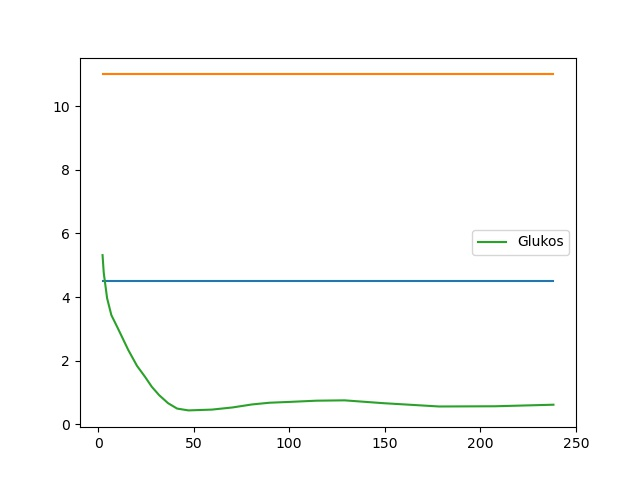
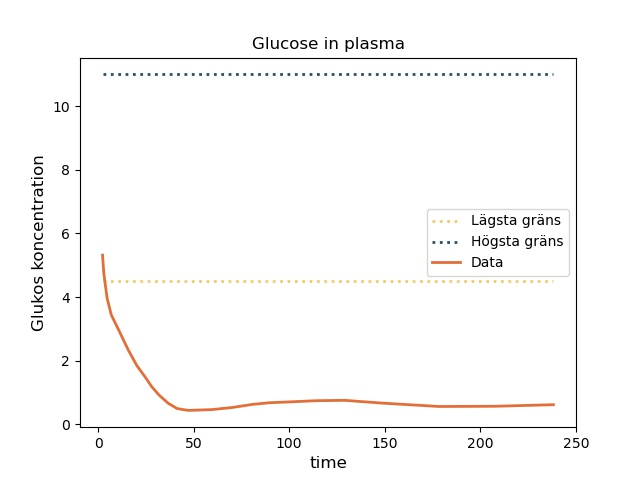
plot changes

diff --git a/optimering/plot_raw_data.py b/optimering/plot_raw_data.py
@@ -3,6 +3,12 @@ import numpy
 import pandas as pd
 import os
 
+# Colour-blind friendly palette (use nice colors)
+cb_palette1 = ["#999999", "#E69F00", "#56B4E9", "#009E73", "#F0E442", "#0072B2", "#D55E00", "#CC79A7"]
+
+# [Mörkblå, Gul, Ockraröd, Mörkgrön ,Olivgrön ,Ljusbeige (dålig), Ljusgult (dålig), Gul ]
+cb_palette2 = ["#F4E3AF", "#F1CB6F", "#E16F3B", "#2D4E63", "#899964", "#F4E3AF", "#F1CB6F", "#E16F3B"]
+
 # Hämta data
 data_G = pd.read_csv ('data_horses\Glukos_new_FFaraber.csv', sep=';')
 data_I = pd.read_csv ('data_horses\insulin_new_FFaraber.csv', sep=';')
@@ -24,15 +30,20 @@ yI1_coordinates = [38,38]   #pM (human)
 yI2_coordinates = [400,400] #pM (human)
 
 # plotta glukos
+lw = 2.0
 plot1 = plt.figure(1)
-plt.plot(xG_coordinates, yG1_coordinates)
-plot1 = plt.figure(1)
-plt.plot(xG_coordinates, yG2_coordinates)
-plot1 = plt.figure(1)
-plt.plot(data_G['tid'].values, data_G['konc'].values, label = 'Glukos')
-plt.legend()
+line1, = plt.plot(xG_coordinates, yG1_coordinates, linestyle=":", linewidth=lw, color=cb_palette2[1])
 
-# Sparar figur i plot constrains
+plot1 = plt.figure(1)
+line2, = plt.plot(xG_coordinates, yG2_coordinates, linestyle=":", linewidth=lw, color=cb_palette2[3])
+
+plot1 = plt.figure(1)
+line3, = plt.plot(data_G['tid'].values, data_G['konc'].values, label = 'Glukos', linestyle="-", linewidth=lw, color=cb_palette2[2])
+plt.legend((line1, line2, line3), ("Lägsta gräns", "Högsta gräns", "Data"))
+plt.xlabel("time", fontsize=12), plt.ylabel("Glukos koncentration", fontsize=12)
+plt.title("Glucose in plasma")
+
+# Sparar figur i plot constrains, glukos
 # Write the result to file
 path_result_dir = "optimering/Bilder/plot_constrains"
 # Check if directory exists
@@ -43,15 +54,21 @@ print("path_fig = {}".format(path_fig))
 plt.savefig(path_fig)
 
 # plotta insulin
+lw = 2.0
 plot1 = plt.figure(2)
-plt.plot(xI_coordinates, yI1_coordinates)
-plot1 = plt.figure(2)
-plt.plot(xI_coordinates, yI2_coordinates)
-plot1 = plt.figure(2)
-plt.plot(data_I['tid'].values, data_I['conc'].values, label = 'Insulin')
-plt.legend()
+line1, = plt.plot(xI_coordinates, yI1_coordinates, linestyle=":", linewidth=lw, color=cb_palette2[1])
 
-# Sparar figur i plot constrains
+plot1 = plt.figure(2)
+line2, = plt.plot(xI_coordinates, yI2_coordinates, linestyle=":", linewidth=lw, color=cb_palette2[3])
+
+plot1 = plt.figure(2)
+line3, = plt.plot(data_I['tid'].values, data_I['conc'].values, label = 'Insulin', linestyle="-", linewidth=lw, color=cb_palette2[4])
+plt.legend((line1, line2, line3), ("Lägsta gräns", "Högsta gräns", "Data"))
+plt.xlabel("time", fontsize=12), plt.ylabel("Insulin koncentration", fontsize=12)
+plt.title("Insulin in plasma")
+plt.show()
+
+# Sparar figur i plot constrains, insulin
 # Write the result to file
 path_result_dir = "optimering/Bilder/plot_constrains"
 # Check if directory exists
